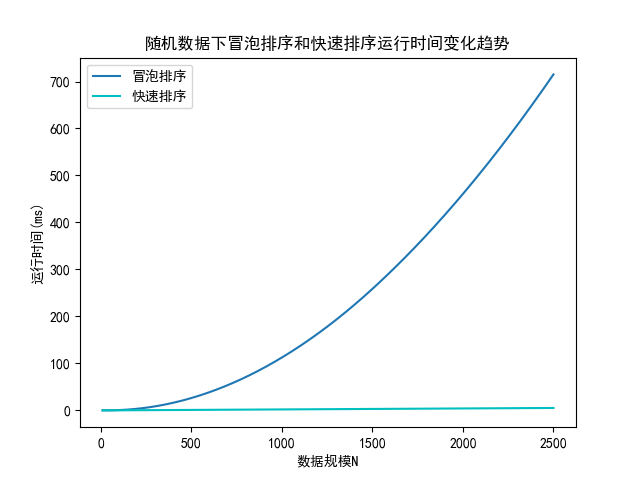
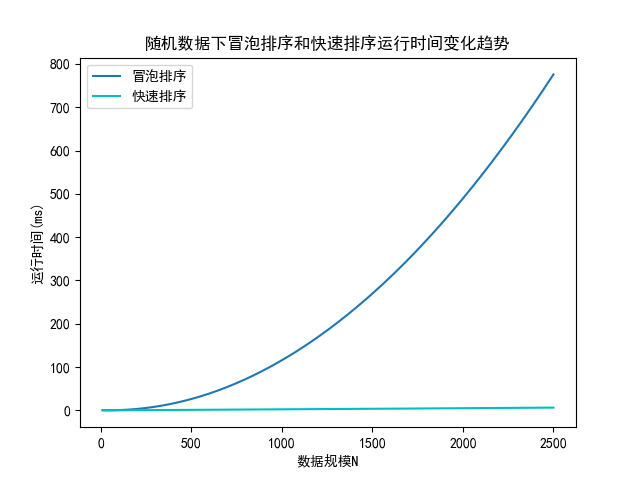
修复python关于list复制的错误，优化冒泡排序

diff --git a/Lab/Lab5/main.py b/Lab/Lab5/main.py
@@ -59,7 +59,7 @@ if __name__ == "__main__":
                 time_tmp = {'quick_sort': [], 'buddle_sort': []}
                 for i in range(10):
                     data = generate_data(n, method)
-                    data_cp = data
+                    data_cp = list(data)
                     start_time = time.clock()
                     buddle_sort(data)
                     end_time = time.clock()

diff --git a/Lab/Lab5/sort.py b/Lab/Lab5/sort.py
@@ -5,7 +5,7 @@ import random
 def buddle_sort(data):
     for i in range(len(data)):
         flag = 0
-        for j in range(len(data) - 1):
+        for j in range(len(data) - i - 1):
             if data[j + 1] < data[j]:
                 data[j + 1], data[j] = data[j], data[j + 1]
                 flag = 1
